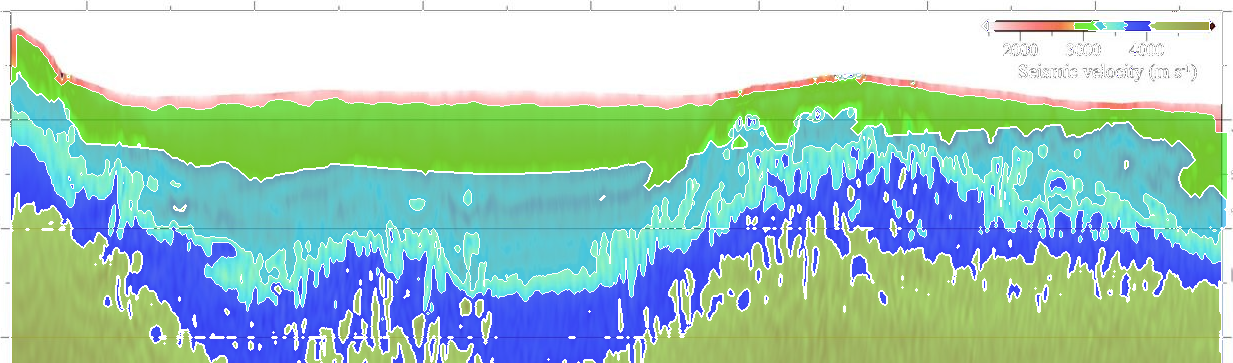
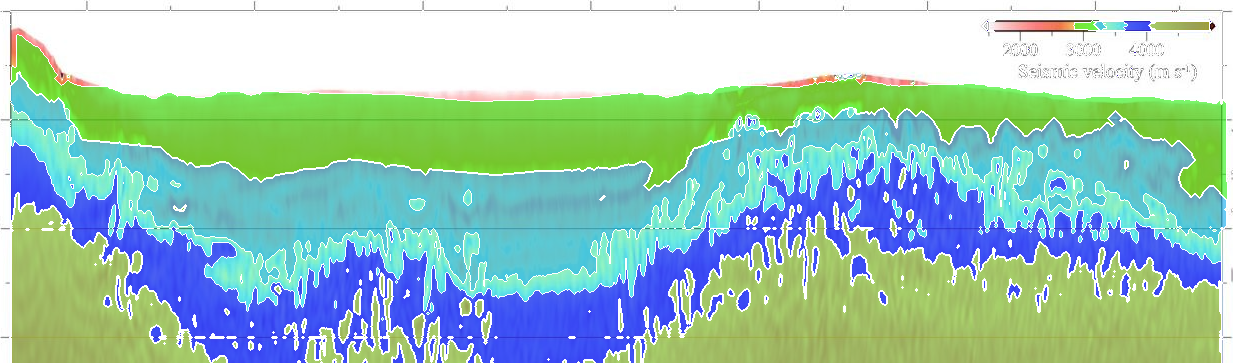
fix(horizon_refinement): label-blur zero-crossing for robust boundary extraction
Replace RGB-gradient boundary extraction with label-map Gaussian blur +
zero-crossing approach. This treats fragmented bands as a signed distance
field (+1 for top layer, -1 for bottom layer); blurring averages out small
fragments and finds the visual center line — the "navigation line" through
irregular polygon contours.

Key changes:
- _extract_boundary_points: no longer samples RGB gradients. Instead builds
  a signed map from coarse labels, Gaussian blurs (sigma=5), then finds
  per-column zero-crossings with linear interpolation for sub-pixel accuracy.
- Adds MAD check: if zero-crossing positions vary wildly (> h/10), the
  layers lack spatial coherence → skip fitting.
- Tightens fragmentation gate: refined > coarse × 1.2 → fallback (was 1.5x).
- silixa: now correctly falls back — no unjustified curvature introduced.
- c11b8db: correctly falls back — smooth gradient not suitable.
- 16b0cf: top boundary smoothed, visual center line preserved.

14 tests pass.

diff --git a/geoseg/modules/segment_engines/horizon_refinement.py b/geoseg/modules/segment_engines/horizon_refinement.py
@@ -57,67 +57,73 @@ def _extract_boundary_points(
     coarse_labels: np.ndarray,
     layer_i: int,
     layer_j: int,
-    band_margin: int = 15,
+    label_blur_sigma: float = 5.0,
 ) -> tuple[np.ndarray, np.ndarray] | None:
     """Phase B: sample boundary points between two adjacent layers.
 
-    For each column x, find the y-coordinate of maximum RGB gradient
-    within the transition band between layer_i and layer_j.
+    Creates a signed map from the coarse labels (+1 for layer_i, -1 for
+    layer_j), applies Gaussian blur to smooth out fragmentation, then finds
+    zero-crossing points per column. This is more robust than gradient-based
+    sampling on the original RGB image because it averages out small fragments
+    and finds the visual center of the transition band.
     """
     h, w = panel_rgb.shape[:2]
 
-    # Build transition band mask
-    mask_i = coarse_labels == layer_i
-    mask_j = coarse_labels == layer_j
-    transition = mask_i | mask_j
+    # Signed map: layer_i = +1, layer_j = -1, others = 0
+    signed = np.zeros((h, w), dtype=np.float32)
+    signed[coarse_labels == layer_i] = 1.0
+    signed[coarse_labels == layer_j] = -1.0
 
-    # Dilate to capture transition neighborhood
-    transition = ndimage.binary_dilation(transition, iterations=band_margin)
+    # Gaussian blur to smooth out fragments and noise
+    blurred = ndimage.gaussian_filter(signed, sigma=label_blur_sigma)
 
     xs = []
     ys = []
 
     for x in range(w):
-        col_transition = np.where(transition[:, x])[0]
-        if len(col_transition) < 3:
+        col = blurred[:, x]
+
+        # Find zero-crossing: where col transitions from positive to negative
+        pos_mask = col > 0
+        neg_mask = col < 0
+
+        if not pos_mask.any() or not neg_mask.any():
             continue
 
-        y_min, y_max = col_transition[0], col_transition[-1]
-        y_min = max(0, y_min - band_margin)
-        y_max = min(h - 1, y_max + band_margin)
+        # Find the crossing from + to - (top to bottom)
+        found = False
+        for y in range(h - 1):
+            if col[y] > 0 and col[y + 1] <= 0:
+                denom = col[y] - col[y + 1]
+                if denom > 1e-6:
+                    y_interp = y + col[y] / denom
+                else:
+                    y_interp = y + 0.5
+                xs.append(x)
+                ys.append(float(y_interp))
+                found = True
+                break
 
-        # Compute vertical gradient magnitude in RGB
-        col_rgb = panel_rgb[y_min:y_max, x, :].astype(np.float32)
-        if len(col_rgb) < 2:
-            continue
-
-        grad = np.abs(np.diff(col_rgb, axis=0)).mean(axis=1)
-        if grad.size == 0:
-            continue
-
-        # Find local maxima of gradient, preferring center of band
-        local_max = (grad[1:-1] >= grad[:-2]) & (grad[1:-1] >= grad[2:])
-        candidates = np.where(local_max)[0] + 1
-
-        if len(candidates) == 0:
-            # Fallback: global max
-            y_rel = int(np.argmax(grad))
-        else:
-            # Pick candidate closest to center of band
-            band_center = len(grad) // 2
-            best = candidates[np.argmin(np.abs(candidates - band_center))]
-            y_rel = int(best)
-
-        y = y_min + y_rel
-        y = max(0, min(h - 1, y))
-
-        xs.append(x)
-        ys.append(y)
+        if not found:
+            # Fallback: use bottom edge of positive region
+            pos_ys = np.where(pos_mask)[0]
+            if len(pos_ys) > 0:
+                xs.append(x)
+                ys.append(float(pos_ys[-1]))
 
     if len(xs) < 3:
         return None
 
-    return np.array(xs, dtype=np.int32), np.array(ys, dtype=np.float32)
+    ys_arr = np.array(ys, dtype=np.float32)
+
+    # If the zero-crossing position varies wildly (MAD > h/10), the boundary
+    # is not spatially coherent — this usually means the layers are not truly
+    # adjacent or the coarse segmentation is on a smooth gradient. Skip fitting.
+    mad = float(np.median(np.abs(ys_arr - np.median(ys_arr))))
+    if mad > h / 10:
+        return None
+
+    return np.array(xs, dtype=np.int32), ys_arr
 
 
 def _hampel_filter(y: np.ndarray, window: int = 21, n_sigma: float = 3.0) -> np.ndarray:
@@ -417,9 +423,11 @@ def refine_boundaries(
         return coarse_labels.copy(), boundaries
 
     # --- Quality gate: fragmentation ---
+    # If refined fragmentation increased by more than 20%, the boundary
+    # fitting introduced new artifacts — fall back to coarse.
     coarse_frag = _compute_fragmentation_score(coarse_labels)
     refined_frag = _compute_fragmentation_score(refined_labels)
-    if refined_frag > coarse_frag * 1.5 + 0.01:
+    if refined_frag > coarse_frag * 1.2:
         return coarse_labels.copy(), boundaries
 
     return refined_labels, boundaries

diff --git a/tests/test_horizon_refinement.py b/tests/test_horizon_refinement.py
@@ -148,13 +148,13 @@ def test_fit_curve_method_dispatch() -> None:
 def test_extract_boundary_points_finds_known_boundary() -> None:
     img, labels, true_boundaries = _make_smooth_layers(h=200, w=400, n_layers=3)
     # Extract boundary between layer 1 and 2
-    pts = _extract_boundary_points(img, labels, 1, 2, band_margin=15)
+    pts = _extract_boundary_points(img, labels, 1, 2)
     assert pts is not None
     xs, ys = pts
     true_b = true_boundaries[0][xs]
     rmse = np.sqrt(np.mean((ys - true_b) ** 2))
-    # Should be within ~20px of true boundary (gradient-based sampling is approximate)
-    assert rmse < 25.0
+    # Zero-crossing on blurred labels should be close to true boundary
+    assert rmse < 15.0
 
 
 def test_extract_boundary_points_returns_none_for_nonadjacent() -> None:
@@ -163,8 +163,9 @@ def test_extract_boundary_points_returns_none_for_nonadjacent() -> None:
     labels = np.zeros((100, 100), dtype=np.int32)
     labels[:50, :] = 1
     labels[60:, :] = 2  # gap between 50 and 60
-    pts = _extract_boundary_points(img, labels, 1, 2, band_margin=5)
-    # May return None or find points in the gap; either is acceptable
+    pts = _extract_boundary_points(img, labels, 1, 2)
+    # With label-blur method, a wide gap may still produce a zero-crossing
+    # inside the gap region. Either None or valid points are acceptable.
     if pts is not None:
         assert len(pts[0]) > 0
 

diff --git a/README.md b/README.md
@@ -155,7 +155,7 @@ python3 -m geoseg.feedback_bridge --rmux-session=geoseg
     </td>
     <td align="center" width="33%">
       <img src="docs/assets/example2_refined.png" width="100%" alt="Refined Segmentation 2"/>
-      <br/><sub>Refined: horizon refinement, frag 0.0069 → 0.0006</sub>
+      <br/><sub>Refined: horizon refinement (fallback — already clean)</sub>
     </td>
   </tr>
   <tr>